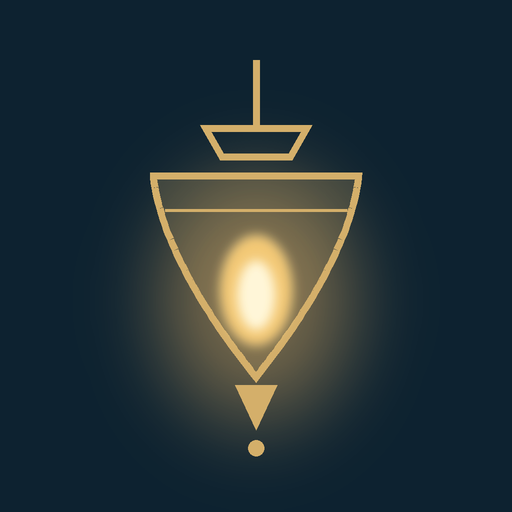
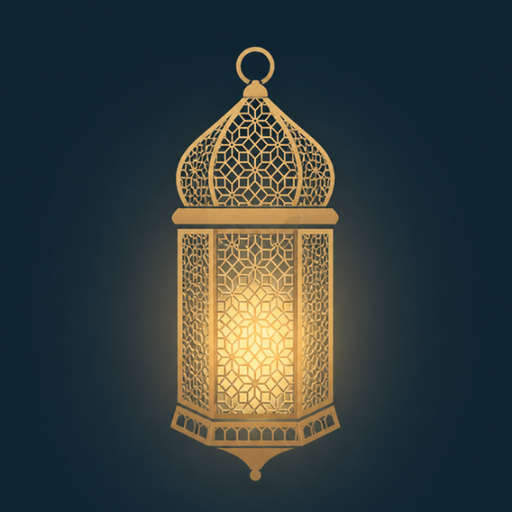
Neues App-Symbol: goldene Laterne mit Sterngitter auf Dunkelblau

Changed region(s): [[0.2812, 0.0938, 0.7188, 0.9375]]

diff --git a/index.html b/index.html
@@ -12,8 +12,8 @@
 <meta name="apple-mobile-web-app-title" content="Itqān">
 <title>Itqān</title>
 <link rel="manifest" href="manifest.webmanifest">
-<link rel="icon" href="icons/favicon-32.png" sizes="32x32">
-<link rel="apple-touch-icon" href="icons/apple-touch-icon.png">
+<link rel="icon" href="icons/favicon-32.png?v=2" sizes="32x32">
+<link rel="apple-touch-icon" href="icons/apple-touch-icon.png?v=2">
 <link rel="stylesheet" href="css/schriften.css?v=7">
 <link rel="stylesheet" href="css/itqan.css?v=7">
 <script>try{var w=JSON.parse(localStorage.getItem('itqan-profil-v1')||'null');w=w&&w.einst&&w.einst.thema||localStorage.getItem('itqan-thema')||'auto';document.documentElement.dataset.modus=w==='auto'?(matchMedia('(prefers-color-scheme: dark)').matches?'dunkel':'hell'):w}catch(e){}</script>

diff --git a/sw.js b/sw.js
@@ -1,5 +1,5 @@
 // Itqān · Service Worker: App-Gerüst offline, Seitenschriften bei Bedarf
-const SCHALE = 'itqan-schale-v7';
+const SCHALE = 'itqan-schale-v8';
 const SEITEN = 'itqan-seiten-v1';
 const DATEIEN = ['./', 'index.html', 'manifest.webmanifest', 'css/itqan.css', 'css/schriften.css', 'js/app.js', 'js/daten.js', 'js/zustand.js', 'js/mushaf.js',
   'daten/layout_v1.json', 'daten/layout_misch.json', 'daten/verse.json', 'daten/abschnitte.json', 'daten/suren.json', 'schriften/uthmanic_hafs.woff2',
